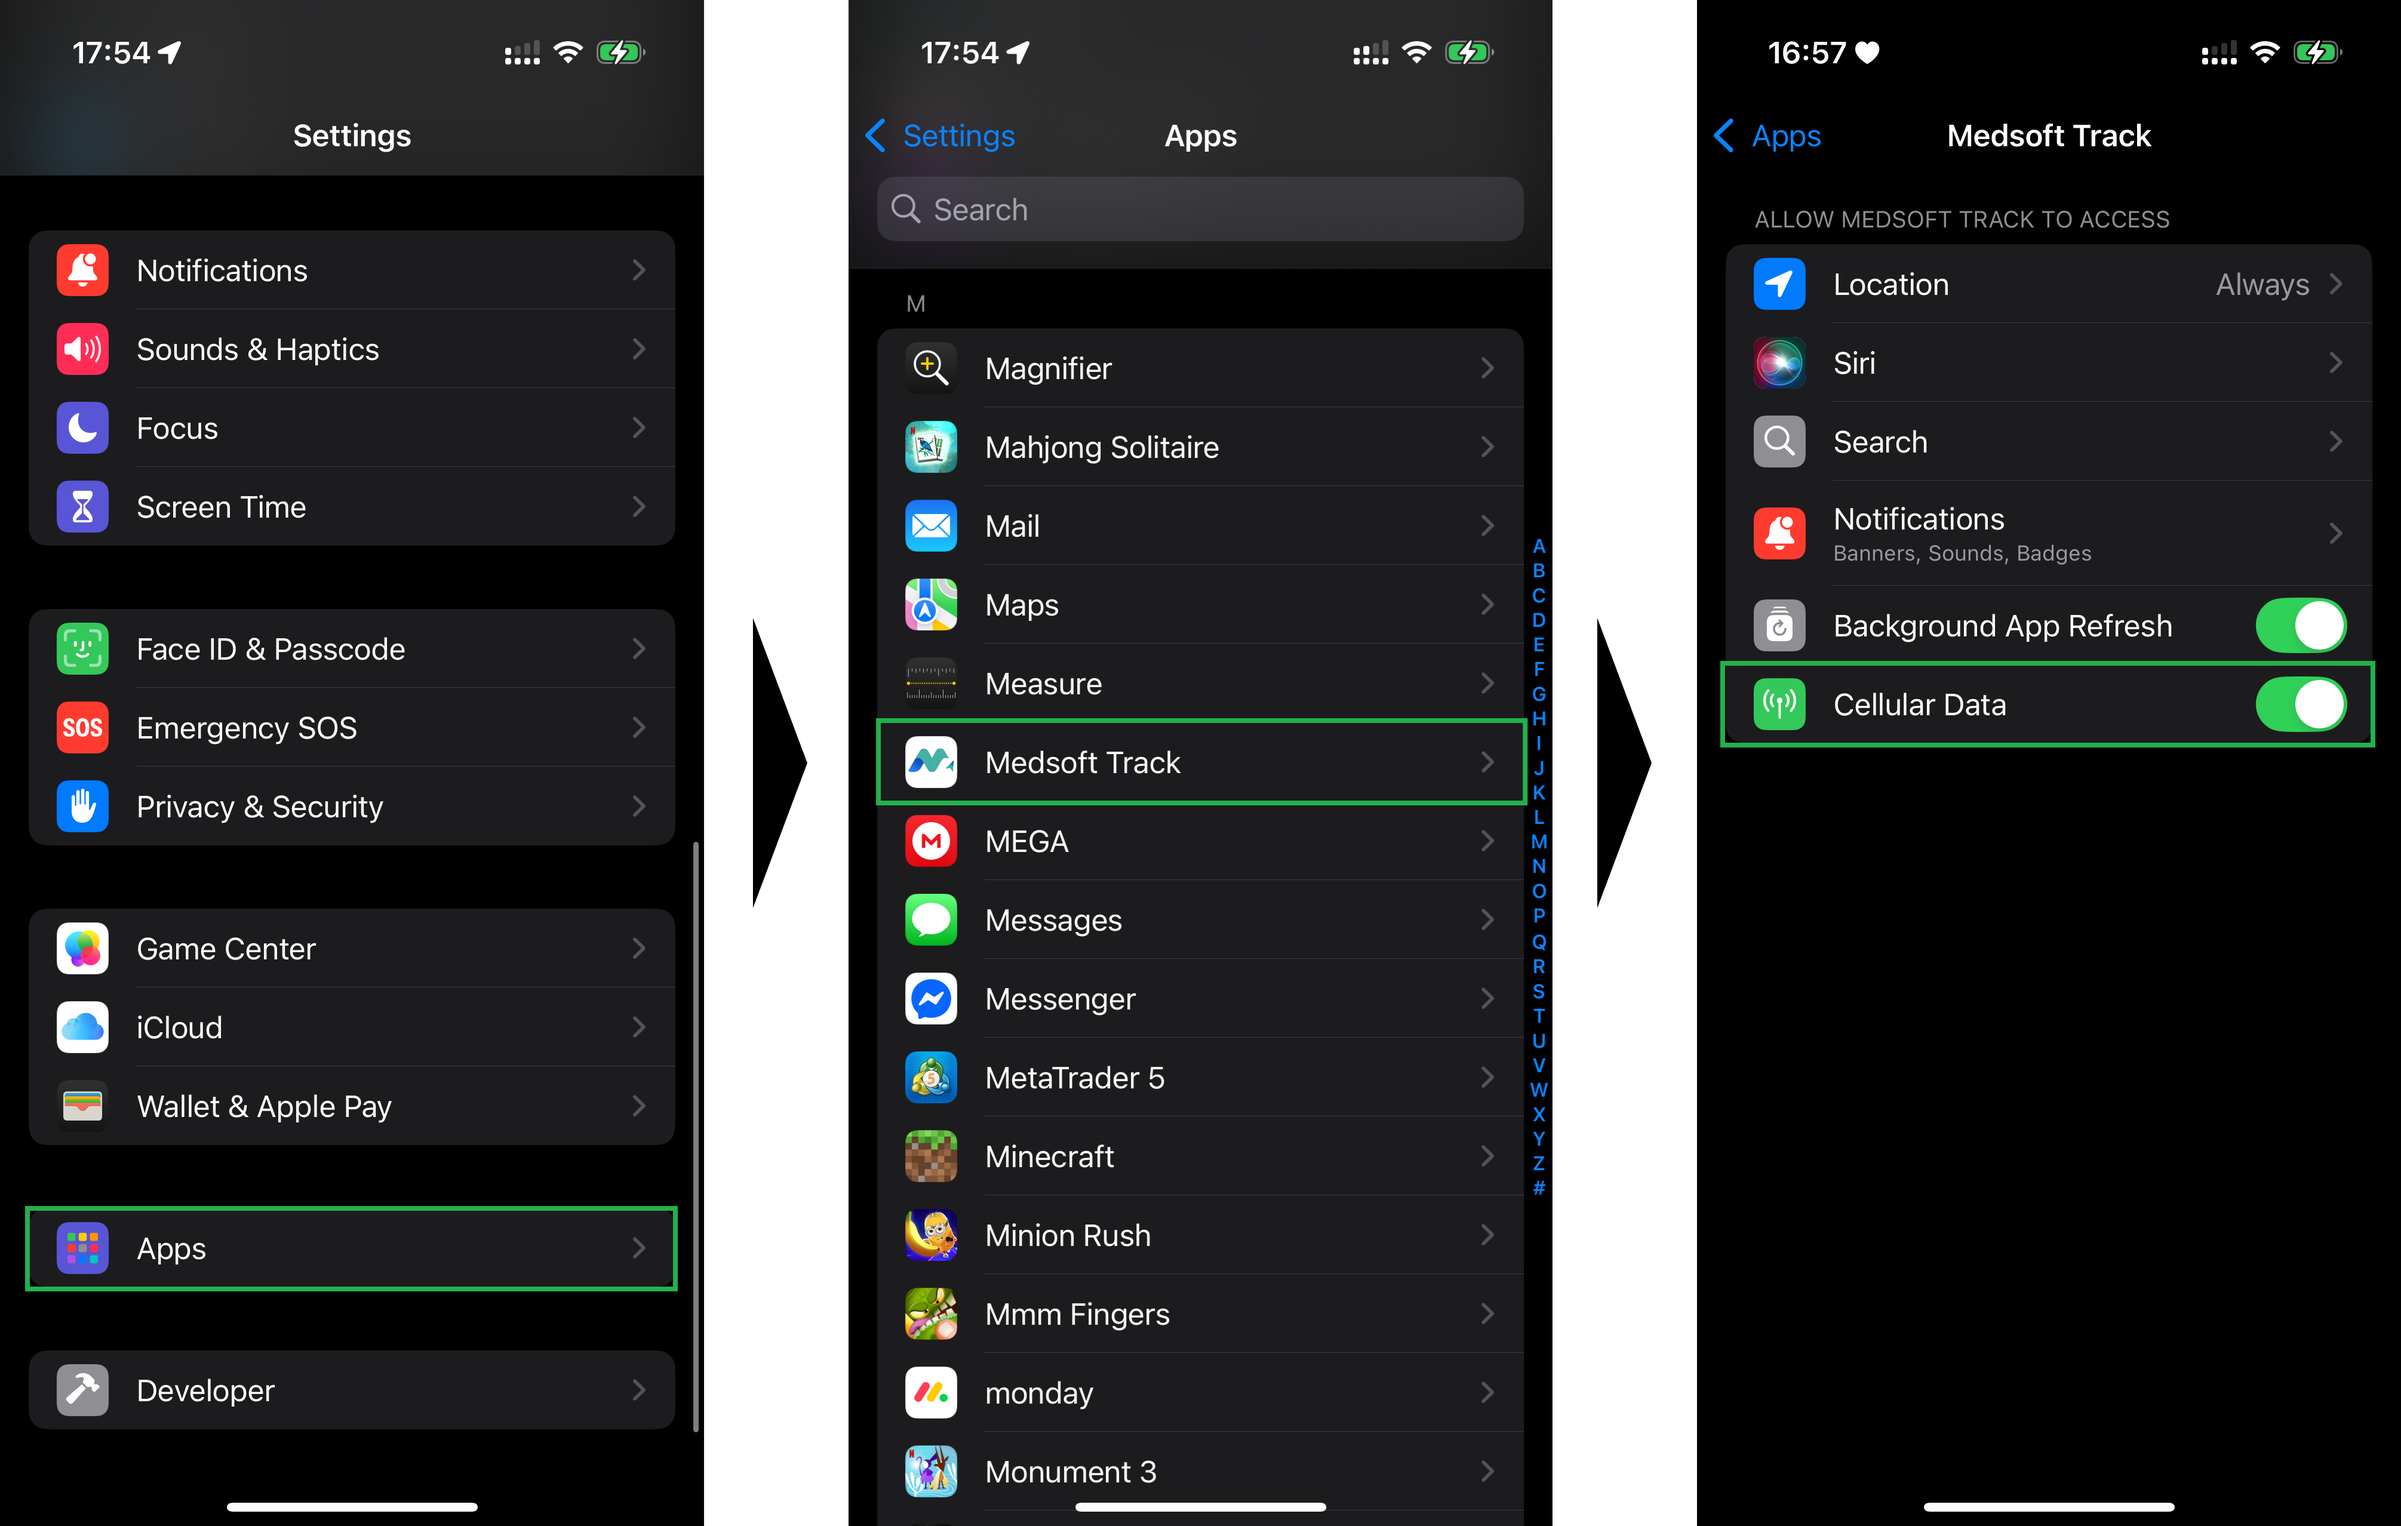
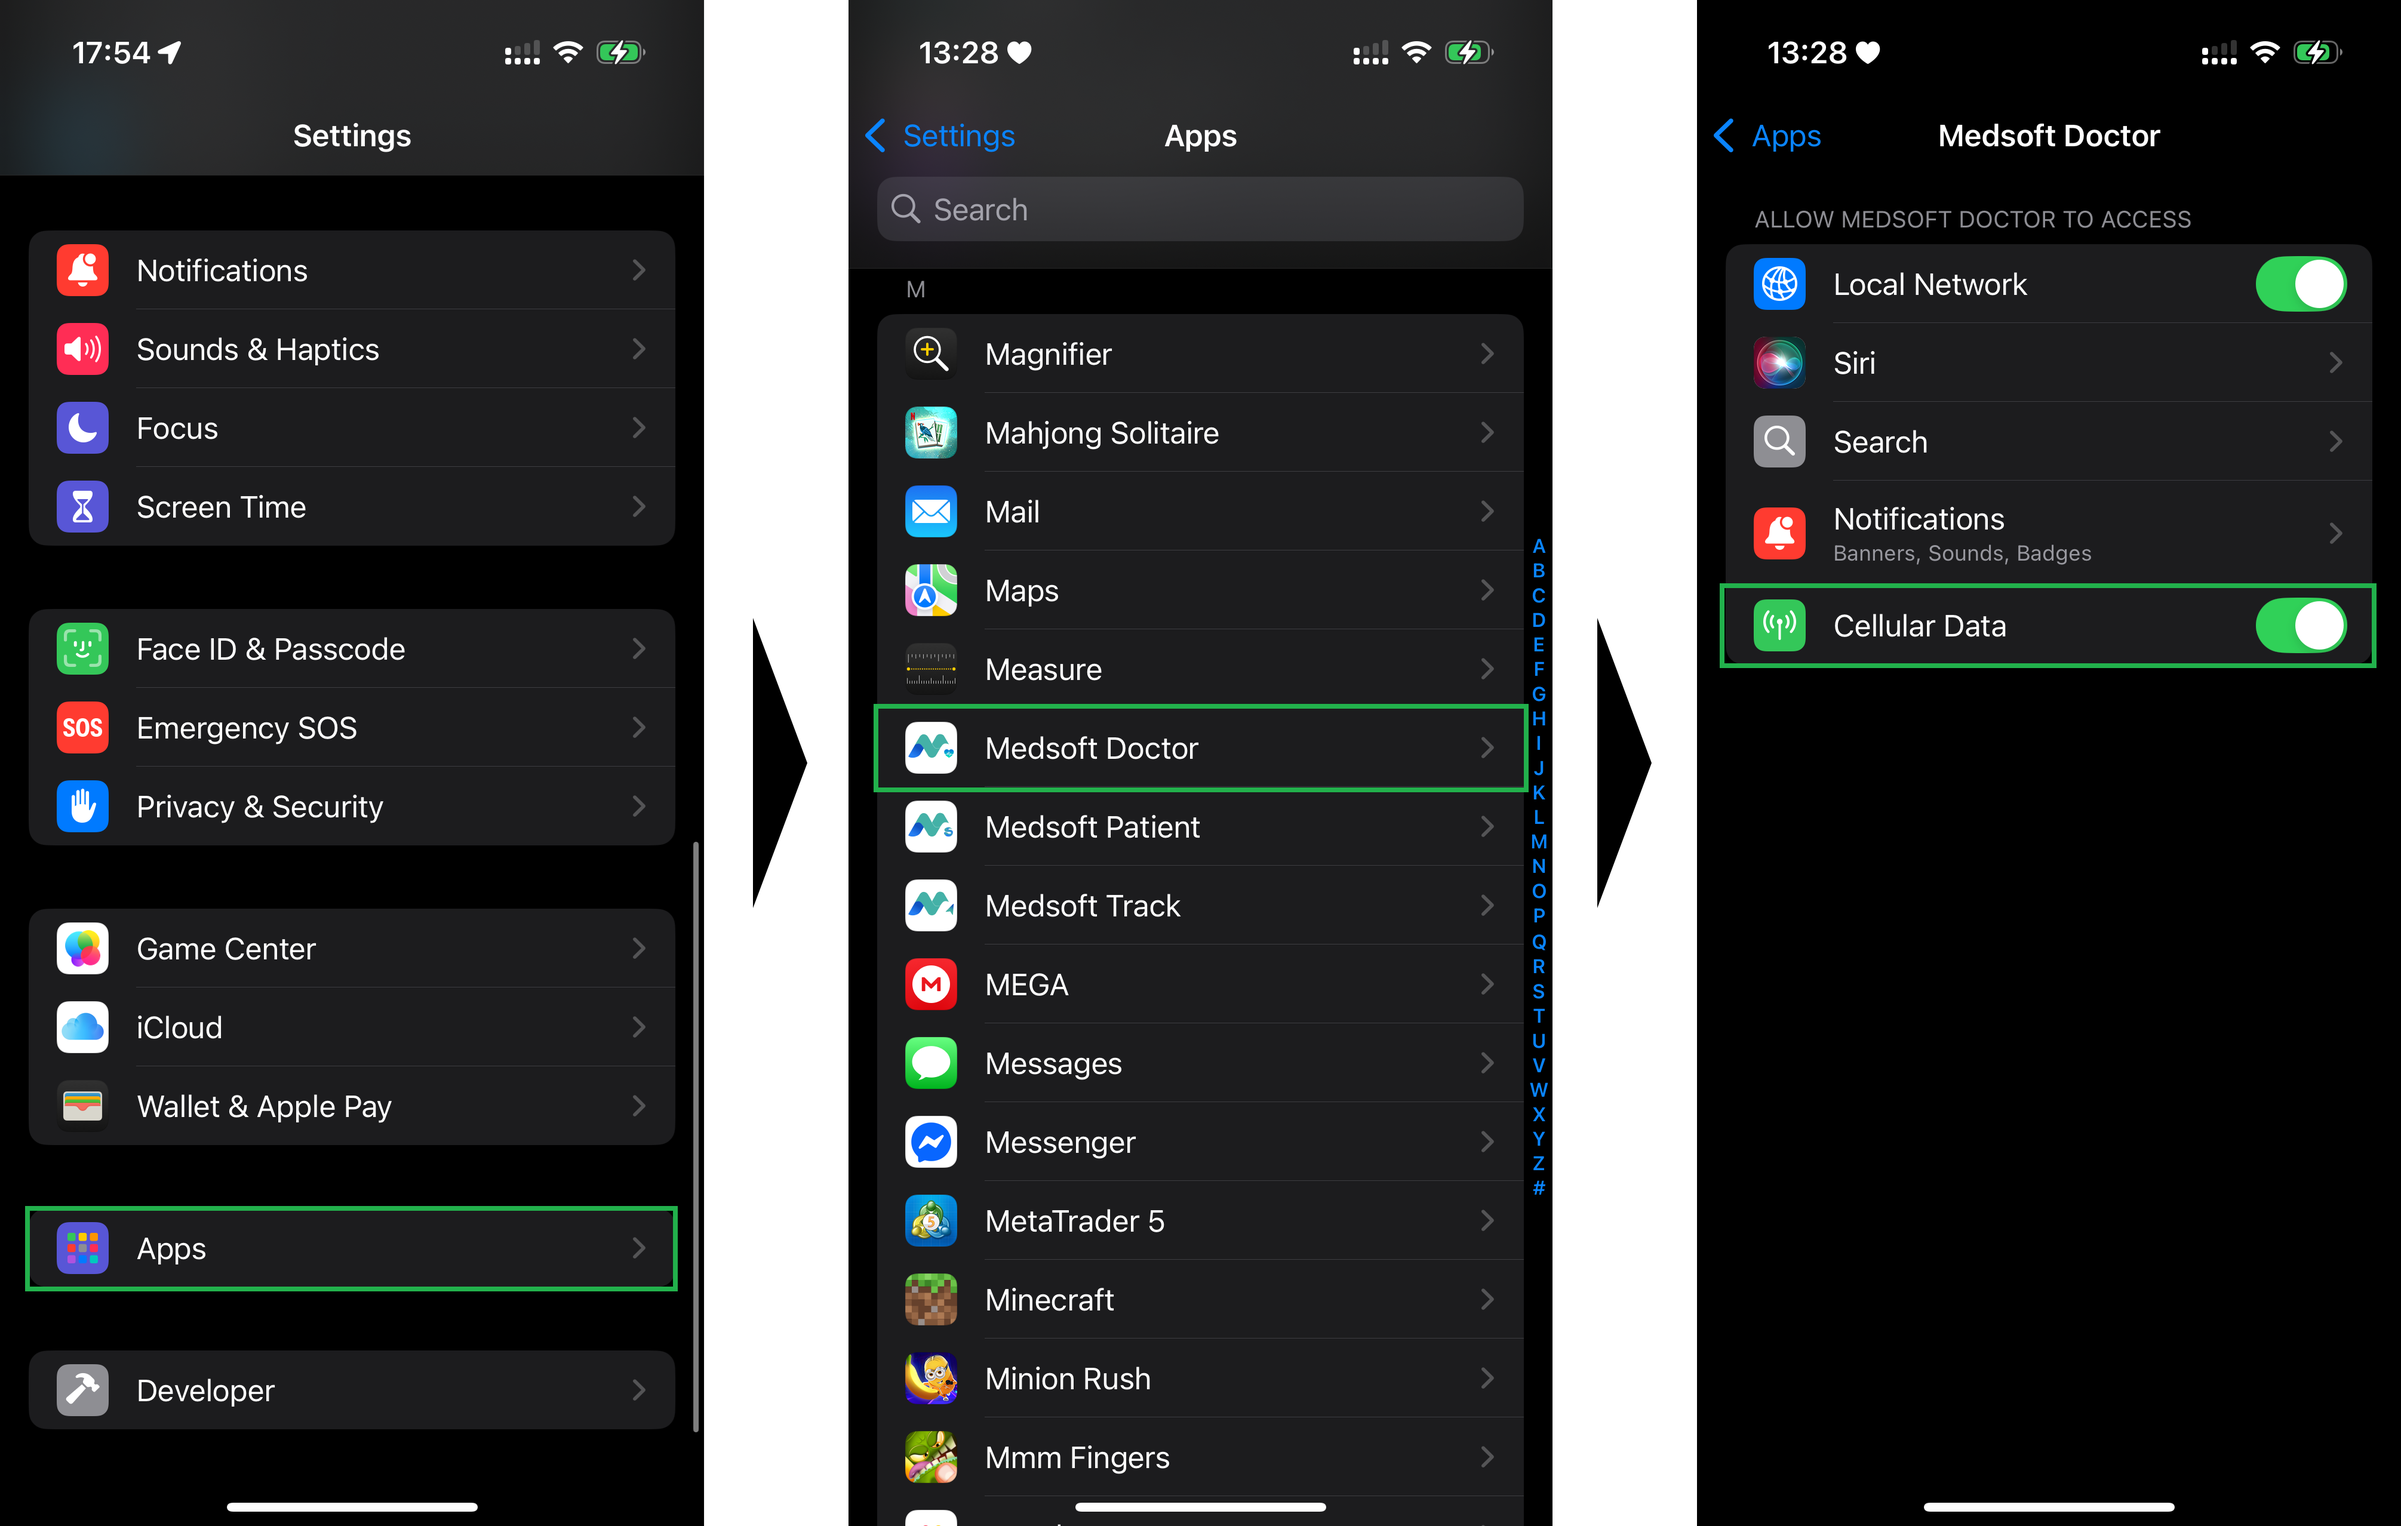
guide fix

diff --git a/lib/guide.dart b/lib/guide.dart
@@ -4,20 +4,20 @@ class GuideScreen extends StatelessWidget {
   const GuideScreen({super.key});
 
   final List<Map<String, String>> guideSteps = const [
+    // {
+    //   'caption': 'Алхам 1: "Location" -> "Always" тохиргоог асаах',
+    //   'asset': 'assets/guide/always.png',
+    // },
+    // {
+    //   'caption': 'Алхам 2: "Location" -> "Precise Location" тохиргоог асаах',
+    //   'asset': 'assets/guide/precise.png',
+    // },
+    // {
+    //   'caption': 'Алхам 3: "Background App Refresh" тохиргоог асаах',
+    //   'asset': 'assets/guide/background.png',
+    // },
     {
-      'caption': 'Алхам 1: "Location" -> "Always" тохиргоог асаах',
-      'asset': 'assets/guide/always.png',
-    },
-    {
-      'caption': 'Алхам 2: "Location" -> "Precise Location" тохиргоог асаах',
-      'asset': 'assets/guide/precise.png',
-    },
-    {
-      'caption': 'Алхам 3: "Background App Refresh" тохиргоог асаах',
-      'asset': 'assets/guide/background.png',
-    },
-    {
-      'caption': 'Алхам 4: "Cellural Data" тохиргоог асаах',
+      'caption': '"Cellural Data" тохиргоог асаах',
       'asset': 'assets/guide/celluralData.png',
     },
   ];
